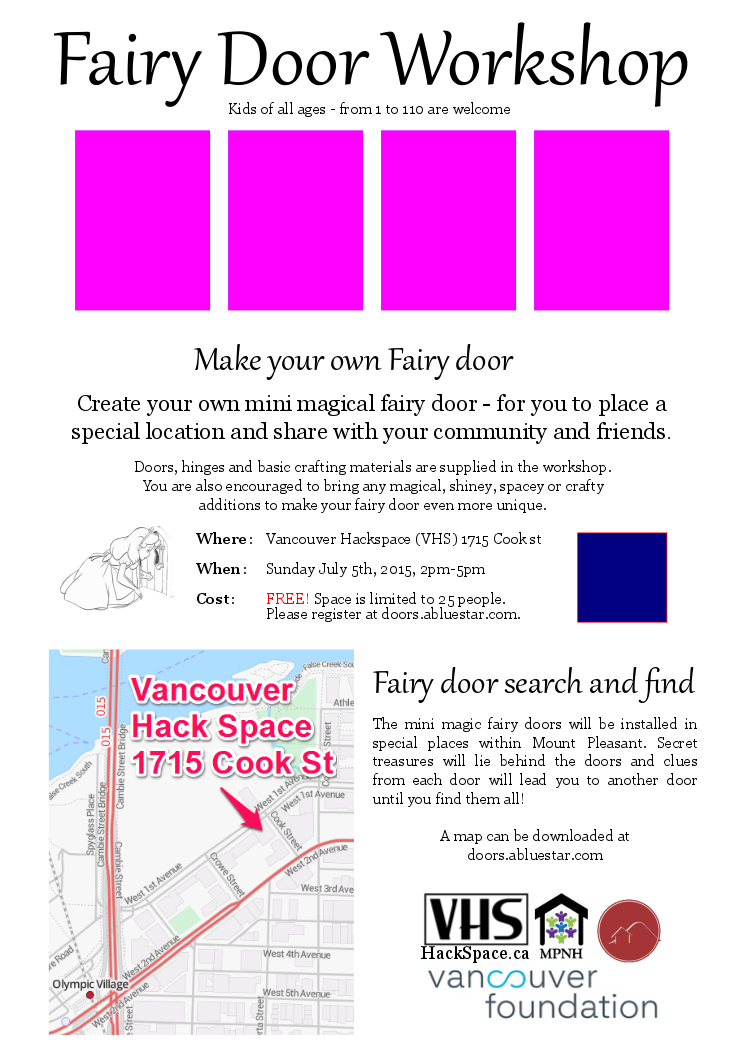
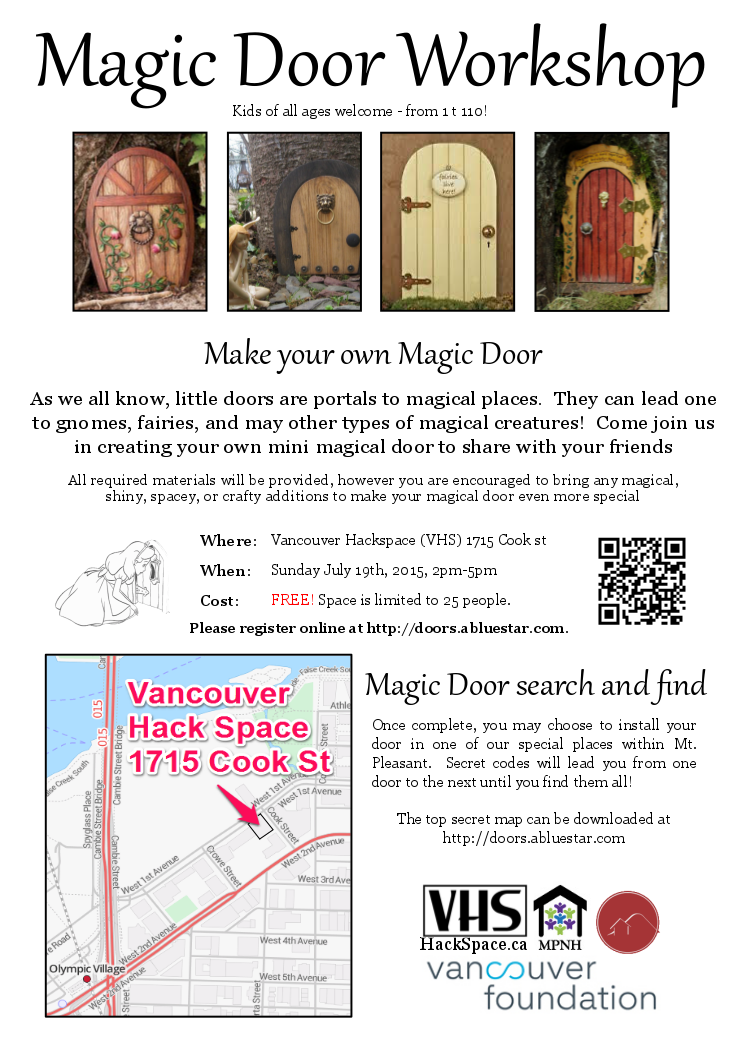
Updating website with Registration information

Changed region(s): [[0.0309, 0.0304, 0.957, 1.0]]

diff --git a/door.abluestar.com/index.html b/door.abluestar.com/index.html
@@ -12,16 +12,11 @@
         <p class="browserupgrade">You are using an <strong>outdated</strong> browser. Please <a href="http://browsehappy.com/">upgrade your browser</a> to improve your experience.</p>
     <![endif]-->
     <!-- Top nav -->
-    <nav class="navbar navbar-inverse navbar-fixed-top" role="navigation">
-      <div class="container">
-        <div class="navbar-header">
-          <h1>Magic Doors</h1>
-        </div>
-      </div>
-    </nav>
 
 	<div class="container">
-    <p>Registration will be available soon</p><br /><br />
+    
+    <h1><a href='https://www.eventbrite.com/e/magic-door-workshop-on-sunday-july-19th-2015-tickets-17290141278'>Register here</a></h1>
+    <br /><br />
 		<img src='img/poster.png' />
 	</div>
   
